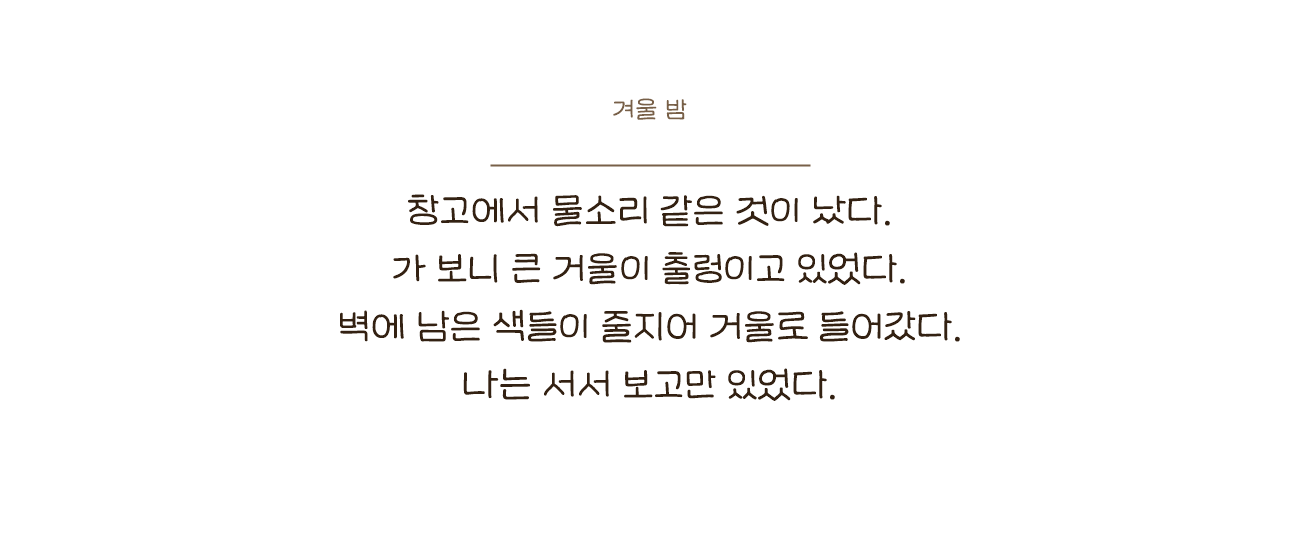
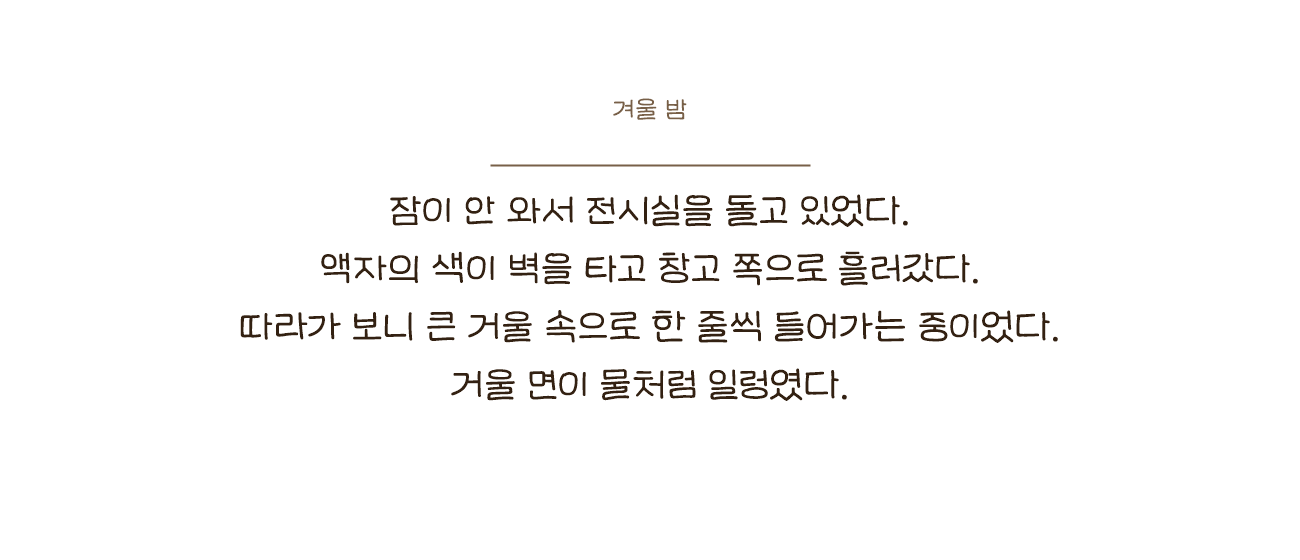
일기장 4쪽 다시 쓰기, 로딩 시간 단축(3.5 -> 1.5초), 아재개그 대신 게임 팁·할아버지 메모

Changed region(s): [[0.1846, 0.5464, 0.8308, 0.7286], [0.2769, 0.3339, 0.7077, 0.425], [0.2462, 0.4554, 0.7692, 0.5161]]

diff --git a/Assets/Scripts/UI/LoadingScreen.cs b/Assets/Scripts/UI/LoadingScreen.cs
@@ -1,4 +1,4 @@
-using System.Collections;
+using System.Collections;
 using LastBullet.Drawing;
 using LastBullet.Inventory;
 using LastBullet.Stage;
@@ -34,30 +34,36 @@ namespace LastBullet.UI
         [Tooltip("물감 9색 아이콘 (빨강 주황 노랑 초록 파랑 보라 핑크 하양 검정 순서)")]
         [SerializeField] Sprite[] paintIcons;
 
-        [Header("아재개그 (한 줄에 질문|답)")]
+        // 2026-11-12 사용자 요청: 아재개그 대신 게임 팁과 할아버지의 메모를 번갈아 보여 준다. 한 줄에 "제목|글" (제목은 윗줄, 글은 아랫줄에 바로 나온다).
+        // (칸 이름이 jokes인 것은 씬에 저장된 연결을 지키려고 그대로 둔 것이다.)
+        [Header("로딩 문구 (한 줄에 제목|글)")]
         [SerializeField] string[] jokes =
         {
-            "바나나가 웃으면?|바나나킥!",
-            "오리가 얼면?|언덕!",
-            "왕이 넘어지면?|킹콩!",
-            "소가 웃는 소리는?|우하하(牛하하)!",
-            "세상에서 가장 빠른 닭은?|후다닭!",
-            "자동차를 발로 차면?|카놀라유!",
-            "경찰이 제일 좋아하는 아이스크림은?|누가바!",
-            "달걀이 놀라면?|에그머니!",
-            "도둑이 제일 좋아하는 아이스크림은?|보석바!",
-            "세상에서 가장 뜨거운 바다는?|열바다!",
+            "게임 팁|머리를 맞히면 피해 2배, 물감도 1.5배예요.",
+            "게임 팁|Q로 구르는 동안은 잠깐 공격을 맞지 않아요.",
+            "게임 팁|E 물감 폭탄의 물감 구역 안에서는 적이 느려지고 계속 피해를 입어요.",
+            "게임 팁|바주카는 폭발 범위가 넓어요. 적이 모였을 때 쏘세요.",
+            "게임 팁|죽으면 모은 재료를 잃어요. ESC에서 귀환하면 정산돼요.",
+            "게임 팁|종이조각 5개로 그림 종이 1장을 만들 수 있어요.",
+            "게임 팁|적을 잡으면 그 적 몸 색의 물감이 나와요.",
+            "게임 팁|1, 2 키로 소총과 바주카를 바꿀 수 있어요. F로도 바꿔요.",
+            "게임 팁|그림판에서 Ctrl+Z로 되돌리면 쓴 물감도 돌아와요.",
+            "게임 팁|맵 한가운데 보스의 내려치기는 점프나 Q로 피할 수 있어요.",
+            "할아버지의 메모|아침마다 액자의 먼지를 턴다. 아홉 개를 다 털면 한 시간이 간다.",
+            "할아버지의 메모|비 오는 날엔 할머니가 오신다. 늘 아홉 번째 액자 앞에 서 계신다.",
+            "할아버지의 메모|색은 처음 짜 놓았을 때가 제일 곱다.",
+            "할아버지의 메모|창고 안쪽에 큰 거울이 있다. 낮에는 그냥 거울이다.",
         };
 
         [Header("시간 (기본값)")]
-        [Tooltip("로딩 화면을 최소한 이만큼은 보여 준다 (초)")]
-        [SerializeField] float minTime = 3.5f;
+        [Tooltip("로딩 화면을 최소한 이만큼은 보여 준다 (초). 2026-11-12 사용자 요청으로 3.5 → 1.5")]
+        [SerializeField] float minTime = 1.5f;
 
-        [Tooltip("아재개그의 답이 나오는 때 (초)")]
-        [SerializeField] float answerDelay = 1.8f;
+        [Tooltip("(안 씀) 예전 아재개그의 답이 나오던 때")]
+        [SerializeField] float answerDelay = 0f;
 
         [Tooltip("화면이 서서히 나타나는 시간 (초)")]
-        [SerializeField] float fadeTime = 0.3f;
+        [SerializeField] float fadeTime = 0.2f;
 
         static LoadingScreen instance;
 
@@ -141,7 +147,7 @@ namespace LastBullet.UI
                 yield return null;
             }
 
-            yield return new WaitForSecondsRealtime(0.15f);
+            yield return new WaitForSecondsRealtime(0.05f);
             operation.allowSceneActivation = true;
         }
 
@@ -173,11 +179,11 @@ namespace LastBullet.UI
             {
                 string[] parts = jokes[Random.Range(0, jokes.Length)].Split('|');
                 if (jokeQuestion != null)
-                    jokeQuestion.text = "Q. " + parts[0].Trim();
+                    jokeQuestion.text = parts[0].Trim();                       // 제목 (게임 팁 / 할아버지의 메모)
                 if (jokeAnswer != null)
                 {
-                    jokeAnswer.text = parts.Length > 1 ? "A. " + parts[1].Trim() : "";
-                    jokeAnswer.gameObject.SetActive(false); // 답은 잠시 뒤에
+                    jokeAnswer.text = parts.Length > 1 ? parts[1].Trim() : ""; // 글은 바로 보인다
+                    jokeAnswer.gameObject.SetActive(true);
                 }
             }
 

diff --git a/docs/claude/SESSION_HANDOFF.md b/docs/claude/SESSION_HANDOFF.md
@@ -802,3 +802,5 @@ Phase 1에서 한 일 (2026-10-29):
 4. **그림판 되돌리기**(메뉴 Phase 102): 마지막 획을 지우고 **그 획에 쓴 물감을 돌려준다**. 버튼 [되돌리기] + **Ctrl+Z**, 최대 40번. 버튼 줄은 [취소][되돌리기][내 그림][완성] 4개로 늘어놨다(각 165×90). `InventoryManager.RefundPaint` 추가. 채우기(통) 도구는 물감 계산이 애매해 안 만들었다.
 5. **난이도 상승**(`BattleDifficulty`, D단계): 전투 맵에 들어온 지 150초마다 새로 나오는 적의 체력이 +8%, 최대 5단계(+40%). 보스는 그대로. 보상은 그대로. `EnemyHealth.Awake`에서 곱한다. 값은 `BattleDifficulty`의 상수.
 - 확인(실제 실행, 소리 끔, 값+화면): 길 안내가 우체통 → 일기장 → 지도 → (종이조각 5개 설정 후) 종이 합성대 → (종이 만든 뒤) 그림 작업대 → (그림 한 장 저장 후) 액자 단계로 이어지고 각 단계 문구가 맞음, 창이 열린 동안 숨김. 되돌리기: 물감 100 → 12 쓰고 → 되돌리자 100으로 복구, 칠한 픽셀 1294 → 0. 도움말 창 글 화면, 전투 맵 조작 안내 판 화면, 난이도 배율 1.0(시작 시) 확인. **테스트 때 쓴 물감·종이·그림은 저장 폴더를 백업해 뒀다가 그대로 복원했다**(사용자 저장은 시험 전과 같음), 안내 기억(PlayerPrefs)도 지워서 다음 첫 입장에 처음부터 보인다. 못 본 것: 실제 마우스로 그림판 되돌리기 버튼 클릭, 실제로 걸어서 지도·합성대·작업대까지 가는 화살표 모습(가구 사이를 직선으로 가서 겹칠 수 있음), 난이도 단계가 오른 뒤의 적(150초 넘게 기다려 보지 않음), 소리·성능·빌드.
+
+- (2026-11-12 사용자: "겨울 밤 일기 내용이 어색해, 로딩 시간을 줄이고 아재개그 말고 넣을 거 있을까") ① **일기장 4쪽(겨울 밤)** 을 자연스러운 순서로 다시 썼다(`Diary_04.png`): "잠이 안 와서 전시실을 돌고 있었다 / 액자의 색이 벽을 타고 창고 쪽으로 흘러갔다 / 따라가 보니 큰 거울 속으로 한 줄씩 들어가는 중이었다 / 거울 면이 물처럼 일렁였다"(다음 쪽 "색들이 제 발로 들어간 거다"와 이어짐). ② **로딩 시간 단축**: 최소 표시 3.5초 → **1.5초**, 나타나는 시간 0.3 → 0.2초, 끝 대기 0.15 → 0.05초(합계 약 3.95 → 1.75초, 실제로 씬을 불러오는 시간이 더 길면 그만큼은 걸린다). ③ **아재개그 대신 "게임 팁 10개 + 할아버지의 메모 4개"**를 무작위로 보여 준다(`LoadingScreen.jokes`, 한 줄에 `제목|글`, 글이 바로 나온다). 팁은 코드와 대조한 사실만(머리 2배·물감 1.5배, Q 무적, 물감 폭탄, 바주카 범위, 죽으면 재료 손실, 종이조각 5개, 적 몸 색 물감, 1·2·F, Ctrl+Z, 보스 내려치기). 확인(실행): 팁·메모가 제목+글 두 줄로 상자에 맞게 나옴(가장 긴 팁은 줄바꿈되어 한 줄로 줄임), 최소 시간 1.5·나타남 0.2 값 확인. 못 본 것: 실제로 맵에 들어갈 때 걸리는 시간(씬 불러오기 자체가 느리면 더 걸림).
